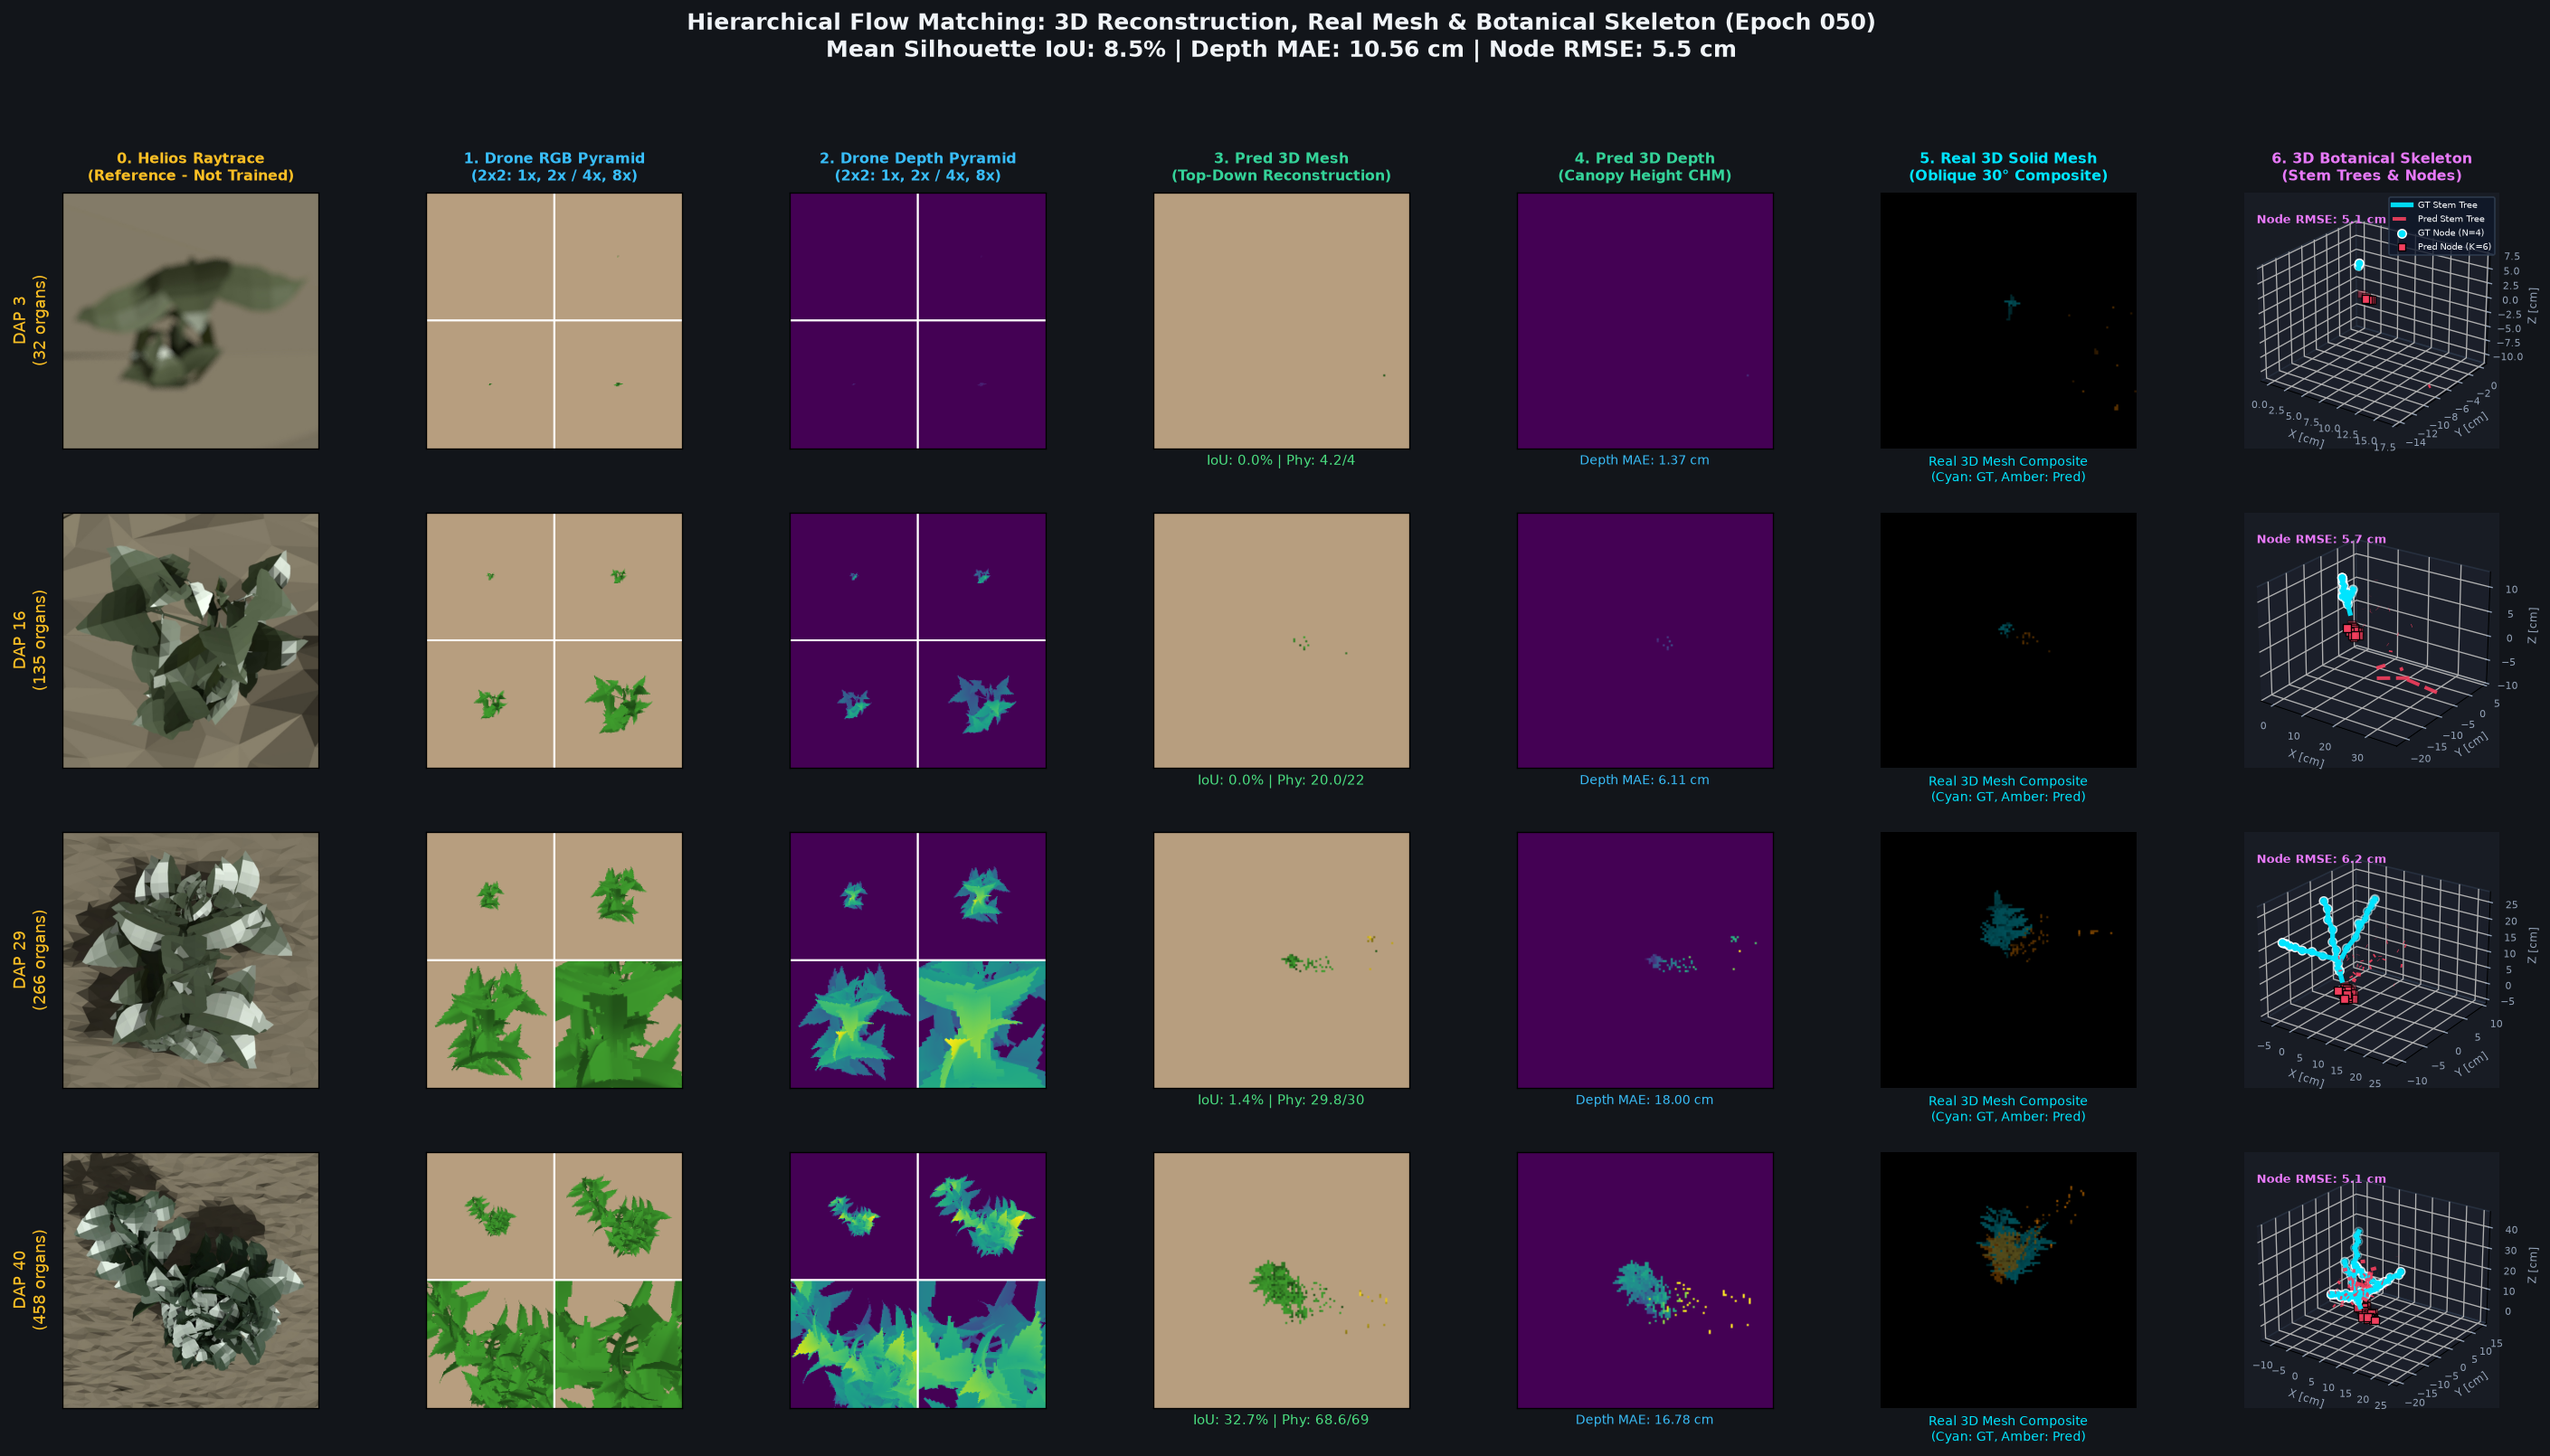
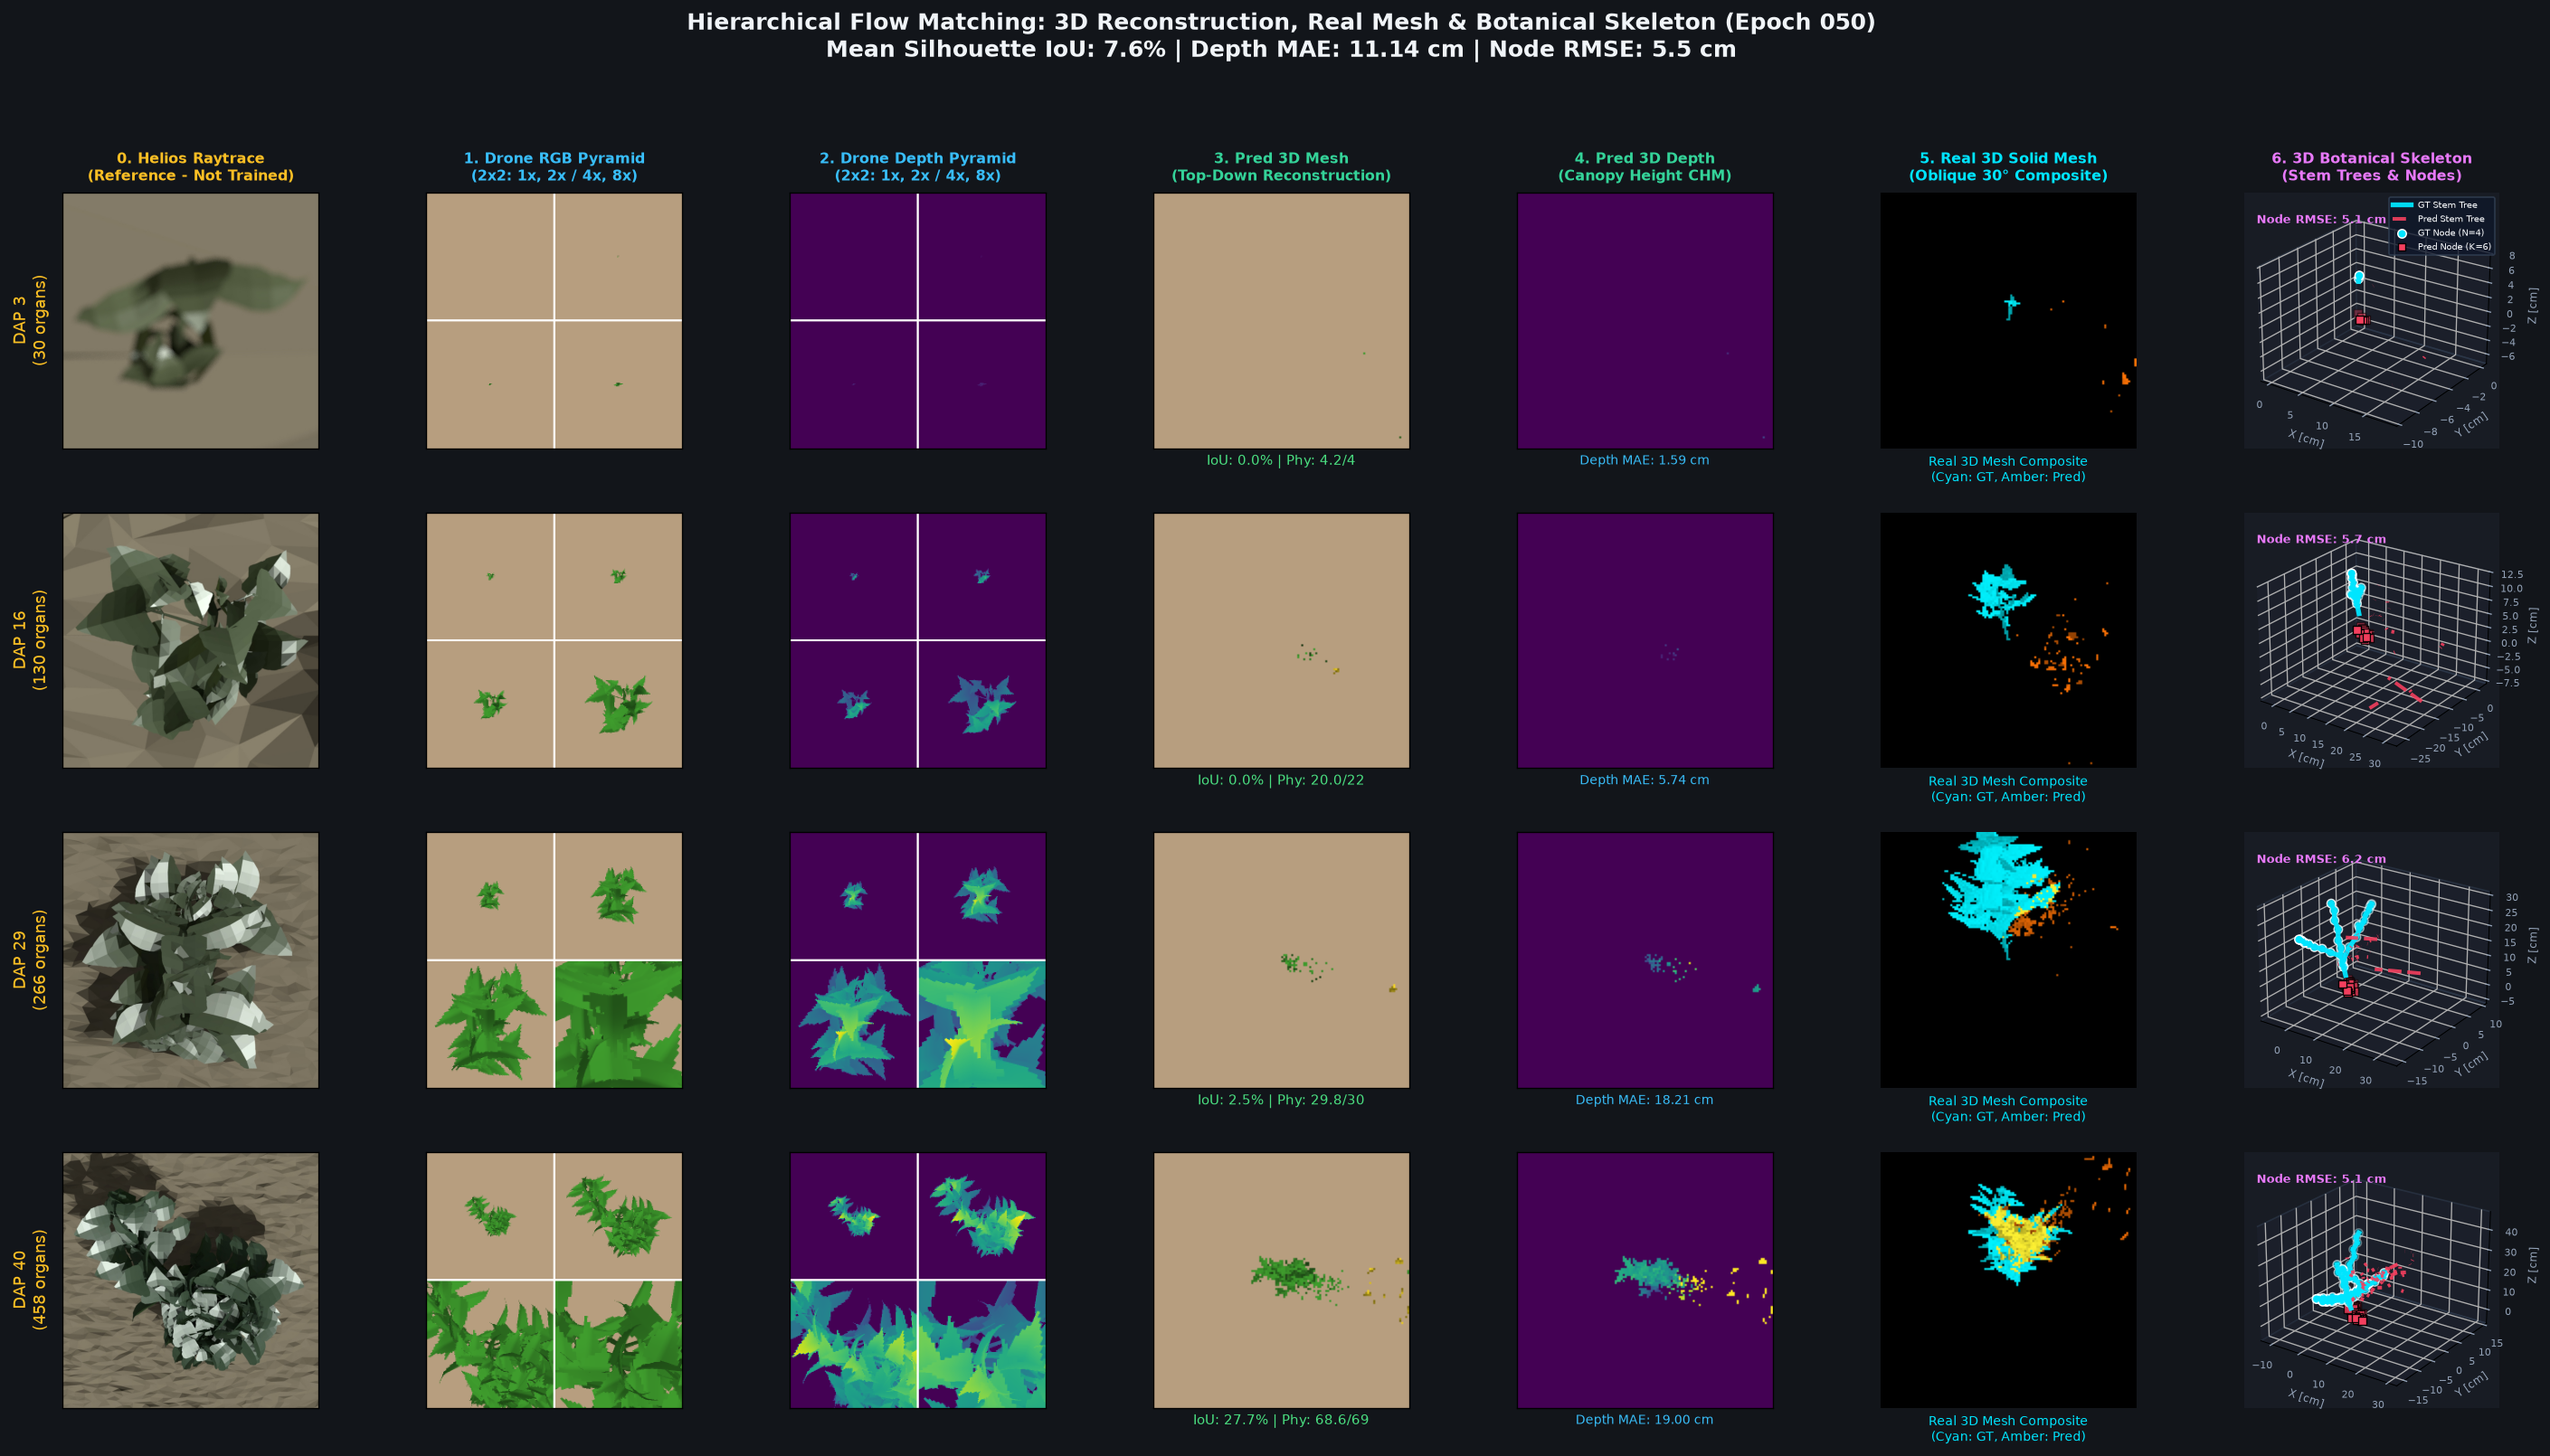
style(eval): boost contrast and vibrancy of Real 3D Mesh Composite with adaptive lifecycle framing

diff --git a/diffusion_based/eval/eval_hierarchical_self_consistency.py b/diffusion_based/eval/eval_hierarchical_self_consistency.py
@@ -302,37 +302,57 @@ def evaluate_self_consistency_batch(
         # Oblique 3D Real Mesh Composite (Cyan: GT, Amber: Pred, Blend: Overlap)
         comp_img = None
         try:
+            # Lifecycle-adaptive zoom for optimal 3D visual framing
+            if dap_val <= 10:
+                eval_zoom_obl = 8.0
+            elif dap_val <= 20:
+                eval_zoom_obl = 4.0
+            elif dap_val <= 35:
+                eval_zoom_obl = 2.2
+            else:
+                eval_zoom_obl = 1.3
+
             rend_gt_obl = None
             if gt_mesh is not None and "vertices" in gt_mesh and gt_mesh["vertices"].shape[0] > 0:
                 rend_gt_obl = renderer.forward(
-                    gt_mesh, elevation_deg=30.0, azimuth_deg=30.0, background="black", focus_plant=False, include_depth=False, zoom_factor=eval_zoom, reference_window_size=1.2
+                    gt_mesh, elevation_deg=30.0, azimuth_deg=30.0, background="black", focus_plant=False, include_depth=False, zoom_factor=eval_zoom_obl, reference_window_size=1.2
                 )
 
             rend_pred_obl = None
             if active_parts.shape[0] > 0 and "vertices" in mesh and mesh["vertices"].shape[0] > 0:
                 rend_pred_obl = renderer.forward(
-                    mesh, elevation_deg=30.0, azimuth_deg=30.0, background="black", focus_plant=False, include_depth=False, zoom_factor=eval_zoom, reference_window_size=1.2
+                    mesh, elevation_deg=30.0, azimuth_deg=30.0, background="black", focus_plant=False, include_depth=False, zoom_factor=eval_zoom_obl, reference_window_size=1.2
                 )
 
+            def boost_lum(lum, thresh=0.02):
+                mask = lum > thresh
+                if not mask.any():
+                    return lum
+                val = lum.clone()
+                peak = val[mask].max()
+                val_norm = torch.clamp(val / (peak + 1e-4), 0.0, 1.0)
+                val_boosted = torch.pow(val_norm, 0.65) * 0.9 + 0.1
+                return torch.where(mask, val_boosted, torch.zeros_like(lum))
+
+            cyan_vivid = torch.tensor([0.0, 0.95, 1.0], device=device)[:, None, None]
+            amber_vivid = torch.tensor([1.0, 0.45, 0.02], device=device)[:, None, None]
+            gold_vivid = torch.tensor([1.0, 0.95, 0.20], device=device)[:, None, None]
+
             if rend_gt_obl is not None and rend_pred_obl is not None:
-                gt_lum = rend_gt_obl[:3].mean(dim=0, keepdim=True)
-                pred_lum = rend_pred_obl[:3].mean(dim=0, keepdim=True)
-                cyan = torch.tensor([0.0, 0.9, 1.0], device=device)[:, None, None]
-                amber = torch.tensor([1.0, 0.55, 0.0], device=device)[:, None, None]
-                gt_colored = gt_lum * cyan
-                pred_colored = pred_lum * amber
-                overlap_mask = (gt_lum > 0.08) & (pred_lum > 0.08)
+                gt_lum = boost_lum(rend_gt_obl[:3].mean(dim=0, keepdim=True))
+                pred_lum = boost_lum(rend_pred_obl[:3].mean(dim=0, keepdim=True))
+                gt_colored = gt_lum * cyan_vivid
+                pred_colored = pred_lum * amber_vivid
+                overlap_mask = (gt_lum > 0.03) & (pred_lum > 0.03)
                 comp_tensor = gt_colored + pred_colored
-                comp_tensor = torch.where(overlap_mask, torch.tensor([0.95, 0.85, 0.3], device=device)[:, None, None] * torch.max(gt_lum, pred_lum), comp_tensor)
+                comp_tensor = torch.where(overlap_mask, gold_vivid * torch.max(gt_lum, pred_lum), comp_tensor)
                 comp_img = comp_tensor.permute(1, 2, 0).clamp(0, 1).cpu().numpy()
             elif rend_gt_obl is not None:
-                gt_lum = rend_gt_obl[:3].mean(dim=0, keepdim=True)
-                cyan = torch.tensor([0.0, 0.9, 1.0], device=device)[:, None, None]
-                comp_img = (gt_lum * cyan).permute(1, 2, 0).clamp(0, 1).cpu().numpy()
+                gt_lum = boost_lum(rend_gt_obl[:3].mean(dim=0, keepdim=True))
+                comp_img = (gt_lum * cyan_vivid).permute(1, 2, 0).clamp(0, 1).cpu().numpy()
             elif rend_pred_obl is not None:
-                pred_lum = rend_pred_obl[:3].mean(dim=0, keepdim=True)
-                amber = torch.tensor([1.0, 0.55, 0.0], device=device)[:, None, None]
-                comp_img = (pred_lum * amber).permute(1, 2, 0).clamp(0, 1).cpu().numpy()
+                pred_lum = boost_lum(rend_pred_obl[:3].mean(dim=0, keepdim=True))
+                comp_img = (pred_lum * amber_vivid).permute(1, 2, 0).clamp(0, 1).cpu().numpy()
         except Exception:
             comp_img = None
 
